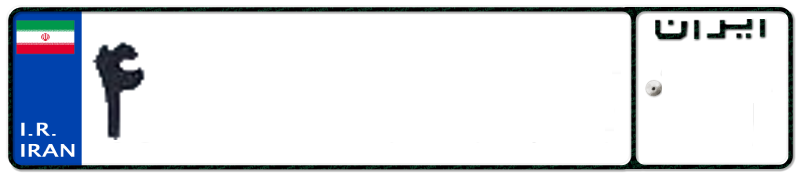
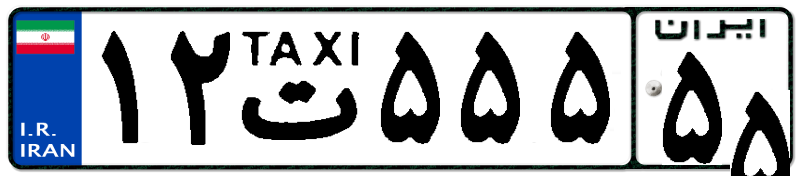
working on a new method

Changed region(s): [[0.0938, 0.1705, 0.6562, 0.8239], [0.8125, 0.2841, 1.0, 1.0], [0.6875, 0.1705, 0.7812, 0.8239]]

diff --git a/make_plate_from_png.py b/make_plate_from_png.py
@@ -1,16 +1,97 @@
 from PIL import Image
+from remove_background import remove_background
 
 # Open the background image
 background = Image.open("templates/savari2.png")
 
-# Open the image to be overlaid
-overlay = Image.open("4.png")
-# Set the position where the overlay image will be placed
-position = (90, 40)  # Specify the coordinates (x, y)
-overlay = overlay.resize((57, 100))
 
-# Paste the overlay image on top of the background image
-background.paste(overlay, position)
+import random
+
+# List of items to choose from
+numbers = [
+          {"ch":'1',
+           "position":[100, 30],
+           "size":[40, 115],
+           },
+          {"ch":'2',
+           "position":[100, 30],
+           "size":[60, 115],
+           },
+          {"ch":'3',
+           "position":[100, 30],
+           "size":[60, 115],
+           },
+        ]
+mini_numbers = []
+chars = [ 
+         {"ch":'T',
+           "position":(240, 30),
+           "size":(120, 110),
+           },
+         {"ch":'H',
+           "position":(260, 50),
+           "size":(80, 80),
+           },
+        #  'D', 'Q', 'HE', 'J', 'L', 'M', 'SAD', 'SIN', 'TA', 'V', 'Y'
+         ]
+
+# Make a random choice from the list
+random_1 = random.choice(numbers)
+random_2 = random.choice(numbers)
+random_char = random.choice(chars)
+
+print("Random choice:", random_char)
+
+
+# Open the image to be overlaid
+overlay0 = remove_background(Image.open("./chars/0.png"))
+overlay2 = remove_background(Image.open("./chars/2.png"))
+overlay5 = remove_background(Image.open("./chars/5.png"))
+overlay6 = remove_background(Image.open("./chars/6.png"))
+overlay7 = remove_background(Image.open("./chars/7.png"))
+overlay9 = remove_background(Image.open("./chars/9.png"))
+# overlaysin = remove_background(Image.open("./chars/SIN.png"))
+overlaych = remove_background(Image.open(f"./chars/{random_char['ch']}.png"))
+# Set the position where the overlay image will be placed
+
+overlay1 = remove_background(Image.open(f"./chars/{random_1['ch']}.png"))
+overlay1 = overlay1.resize(random_1['size']) 
+background.paste(overlay1, [100, random_1['position'][1]])
+
+overlay2 = remove_background(Image.open(f"./chars/{random_2['ch']}.png"))
+overlay2 = overlay2.resize(random_2['size']) 
+background.paste(overlay2, [170, random_2['position'][1]])
+
+# position = (160, 30)  # Specify the coordinates (x, y)
+# overlay5 = overlay5.resize((60, 115)) 
+# background.paste(overlay5, position)
+
+position = random_char['position']  # Specify the coordinates (x, y)
+overlaych = overlaych.resize(random_char['size']) 
+background.paste(overlaych, position)
+
+position = (380, 30)  # Specify the coordinates (x, y)
+overlay5 = overlay5.resize((60, 115)) 
+background.paste(overlay5, position)
+
+position = (460, 30)  # Specify the coordinates (x, y)
+overlay7 = overlay7.resize((60, 115)) 
+background.paste(overlay5, position)
+
+position = (550, 30)  # Specify the coordinates (x, y)
+overlay1 = overlay1.resize((40, 115)) 
+background.paste(overlay5, position)
+
+position = (662, 50)  # 4
+overlay2 = overlay2.resize((63, 100)) # 4
+# overlay1 = overlay1.resize((57, 100)) # 4
+background.paste(overlay5, position)
+
+
+position = (730, 90)  # Specify the coordinates (x, y)
+overlay0 = overlay0.resize((40, 40)) 
+background.paste(overlay5, position)
+
 
 # Save the final image with the overlay
 background.save("output_image.png")

diff --git a/main2.py b/main2.py
@@ -1,0 +1,68 @@
+from PIL import Image, ImageDraw, ImageFont
+import arabic_reshaper
+from bidi.algorithm import get_display
+
+def persian(text):
+    return get_display(arabic_reshaper.reshape(text))
+    # return text
+
+import random
+from offsets import letters
+# x = letters.items()
+
+num_img = 1
+
+x = lambda t : str(random.randint(1,9)) 
+
+for n in range(num_img):
+
+    counter=0
+    for k,v in letters.items():
+        # print(k,v)
+        # Open an image file
+        template_path = './templates/savari2.png'
+        # font_path = './fonts/khorshid.ttf'
+        # font_path = './fonts/BZarBd.ttf'
+
+        image = Image.open(template_path)
+
+        # Initialize the drawing context
+        draw = ImageDraw.Draw(image)
+
+        plate_text=[x(0),x(0),k,x(0),x(0),x(0),x(0),x(0)]
+        # plate_text=['5','5',k,'5','5','5','5','5']
+
+        positions = [
+            [90, 38],
+            [165,38],
+            [v[0], v[1]],
+            [380,38],
+            [460,38],
+            [540,38],
+            [665,65],
+            [725,65],
+            ]
+
+        for i in range(len(plate_text)):
+            # Define the text to be added
+            # text = "1"
+            text = plate_text[i]
+            # Load a custom font
+            if i==2:
+                if k=='ه':
+                    font = ImageFont.truetype('arial', size=v[2])
+                else:
+                    font = ImageFont.truetype(font_path, size=v[2])
+            elif i>=6:
+                font = ImageFont.truetype(font_path, size=112)
+            else:
+                font = ImageFont.truetype(font_path, size=140)
+            # Specify the position to add the text
+            # Add text to the image
+            draw.text(positions[i], persian(text), fill="black", font=font)
+            
+            
+        # Save the modified image
+        image.save(f"./output/output_{n}_{counter}.png")
+        print("Text added successfully!")
+        counter+=1

diff --git a/remove_background.py b/remove_background.py
@@ -1,24 +1,28 @@
 
 from PIL import Image
 
-# Load the image
-image = Image.open('chars/4.jpg')
 
-# Create a copy of the image with an alpha channel
-image = image.convert("RGBA")
-data = image.getdata()
+def remove_background(image):
+    # Load the image
+    # image = Image.open('chars/4.png')
 
-# Define the threshold for transparency
-threshold = 100
-new_data = []
-for item in data:
-    if item[0] > threshold and item[1] > threshold and item[2] > threshold:
-        new_data.append((255, 255, 255, 255))
-    else:
-        new_data.append(item)
+    # Create a copy of the image with an alpha channel
+    image = image.convert("RGBA")
+    data = image.getdata()
 
-# Update the image data
-image.putdata(new_data)
+    # Define the threshold for transparency
+    threshold = 50
+    new_data = []
+    for item in data:
+        if item[0] > threshold and item[1] > threshold and item[2] > threshold:
+            new_data.append((255, 255, 255, 255))
+        else:
+            new_data.append((0, 0, 0, 255))
+            # new_data.append(item)
 
-# Save the image with transparent background
-image.save("4.png")
+    # Update the image data
+    image.putdata(new_data)
+
+    # Save the image with transparent background
+    image.save("4.png")
+    return image
